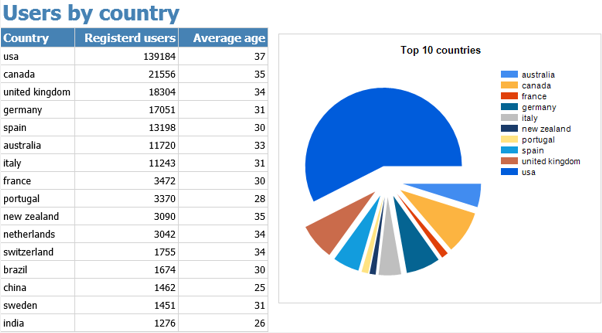
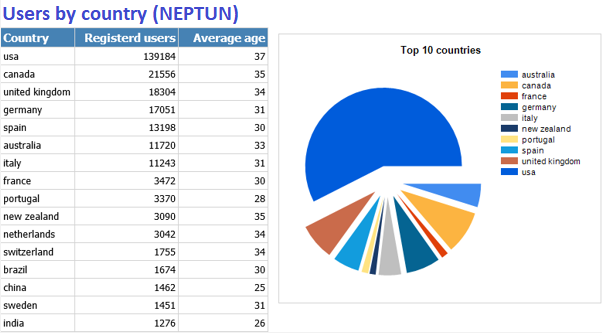
Laboratory exercises update / exercises for spring 2019 / instructions to include neptun code is report title

Changed region(s): [[0.0, 0.0, 0.4186, 0.0901]]

diff --git a/README.md b/README.md
@@ -27,7 +27,7 @@ You need to following tools to complete this laboratory:
 
 While completing your exercises, please include the scripts, packages, projects, etc. in your submission. A starter submission is provided to you. Fill in the missing pieces there.
 
-> :memo: The exercises each highlight the `path` where you should put your solution. **Please follow these guidelines.** The submissions are checked automatically. Files and folders not adhering to the prescribed structure might be skipped, and you will get a worse grade.
+> :memo: The exercises all highlight the `path` where you should put your solution. **Please follow these guidelines.** The submissions are checked automatically. Files and folders not adhering to the prescribed structure might be skipped, and you will get a worse grade.
 
 ## Task
 

diff --git a/exercise4.md b/exercise4.md
@@ -61,6 +61,8 @@ The final report should look similar to this:
 
      ![Specify chart data](images/exercise/rs-users-chart-data.png)
 
+1. Add a title to the report, and include your neptun code in the title. (See the sample report at the top.)
+
 1. Preview the report by switching to the _Preview_ tab in Visual Studio.
 
 > :memo: Include a screenshot of the report from Visual Studio as `exercise-4\ex4_report_screenshot_users.png`.

diff --git a/exercise6.md b/exercise6.md
@@ -14,6 +14,8 @@ Create a report that lists the **top 10 highest rated books** in a table.
 
 - Make sure to calculate the rating appropriately: if the imported rating is of type integer, make sure to use decimal types when averaging the values!
 
+- Add a title to the report, and include your neptun code in the title.
+
 The final report should look similar to this:
 
 ![Top books report](images/exercise/report-books.png)
